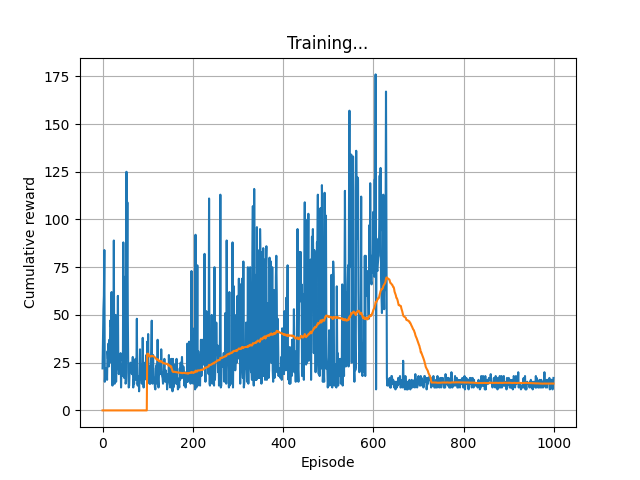
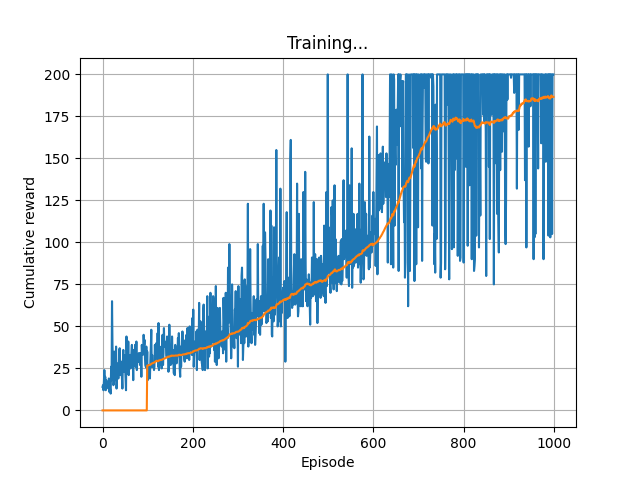
Ex4: bug fixed in rbf agent

diff --git a/exercise-4/rbf_agent.py b/exercise-4/rbf_agent.py
@@ -49,7 +49,7 @@ class Agent(object):
         if len(state.shape) == 1:
             state = state.reshape(1, -1)
         # Task 1a: DONE: Use (s, abs(s)) as features
-        # return [np.array([sample, np.abs(sample)]).flatten() for sample in state]
+        # return [np.array([sample, np.abs(sample)]).flatten() for sample in self.scaler.transform(state)]
 
         # Task 1b: RBF features
         return self.featurizer.transform(self.scaler.transform(state))
@@ -66,23 +66,28 @@ class Agent(object):
             return a
 
     def single_update(self, state, action, next_state, reward, done):
-        # Calculate feature representations of the
-        # Task 1: DONE: Set the feature state and feature next state
-        featurized_state = self.featurize(state)
-        featurized_next_state = self.featurize(next_state)
+        if not done:
+            # Calculate feature representations of the
+            # Task 1: DONE: Set the feature state and feature next state
+            featurized_state = self.featurize(state)
+            featurized_next_state = self.featurize(next_state)
 
-        # Task 1:  DONE Get Q(s', a) for the next state
-        next_qa = [q.predict(featurized_next_state)[0] for q in self.q_functions]
-        next_qa = np.array(next_qa)
-        next_qs = np.max(next_qa, axis=0)
+            # Task 1:  DONE Get Q(s', a) for the next state
+            next_qsa = np.array([q.predict(featurized_next_state)[0] for q in self.q_functions])
 
-        # Calculate the updated target Q- values
-        # Task 1: DONE: Calculate target based on rewards and next_qs
-        current_q = [q.predict(featurized_state)[0] for q in self.q_functions][action]
-        target = [reward + self.gamma * next_qs - current_q]
+            # Calculate the updated target Q- values
+            # Task 1: DONE: Calculate target based on rewards and next_qs
+            target = np.array([reward + self.gamma * np.max(next_qsa)])
 
-        # Update Q-value estimation
-        self.q_functions[action].partial_fit(featurized_state, target)
+            # print("-------------")
+            # print("next qa -> ", next_qsa)
+            # print("next qs -> ", np.max(next_qsa))
+            # print("target -> ", target, target.shape)
+            # print("featurized state -> ", featurized_state)
+            # print("-------------")
+
+            # Update Q-value estimation
+            self.q_functions[action].partial_fit(featurized_state, target)
 
     def update_estimator(self):
         if len(self.memory) < self.batch_size:

diff --git a/exercise-4/main.py b/exercise-4/main.py
@@ -88,7 +88,7 @@ for ep in range(num_episodes):
     #               "weights_%s_%d.mdl" % (env_name, ep))
 
 plot_rewards(cumulative_rewards)
-plt.savefig("plots/task-1b.png")
+plt.savefig("plots/task-1a.png")
 print('Complete')
 plt.ioff()
 plt.show()
